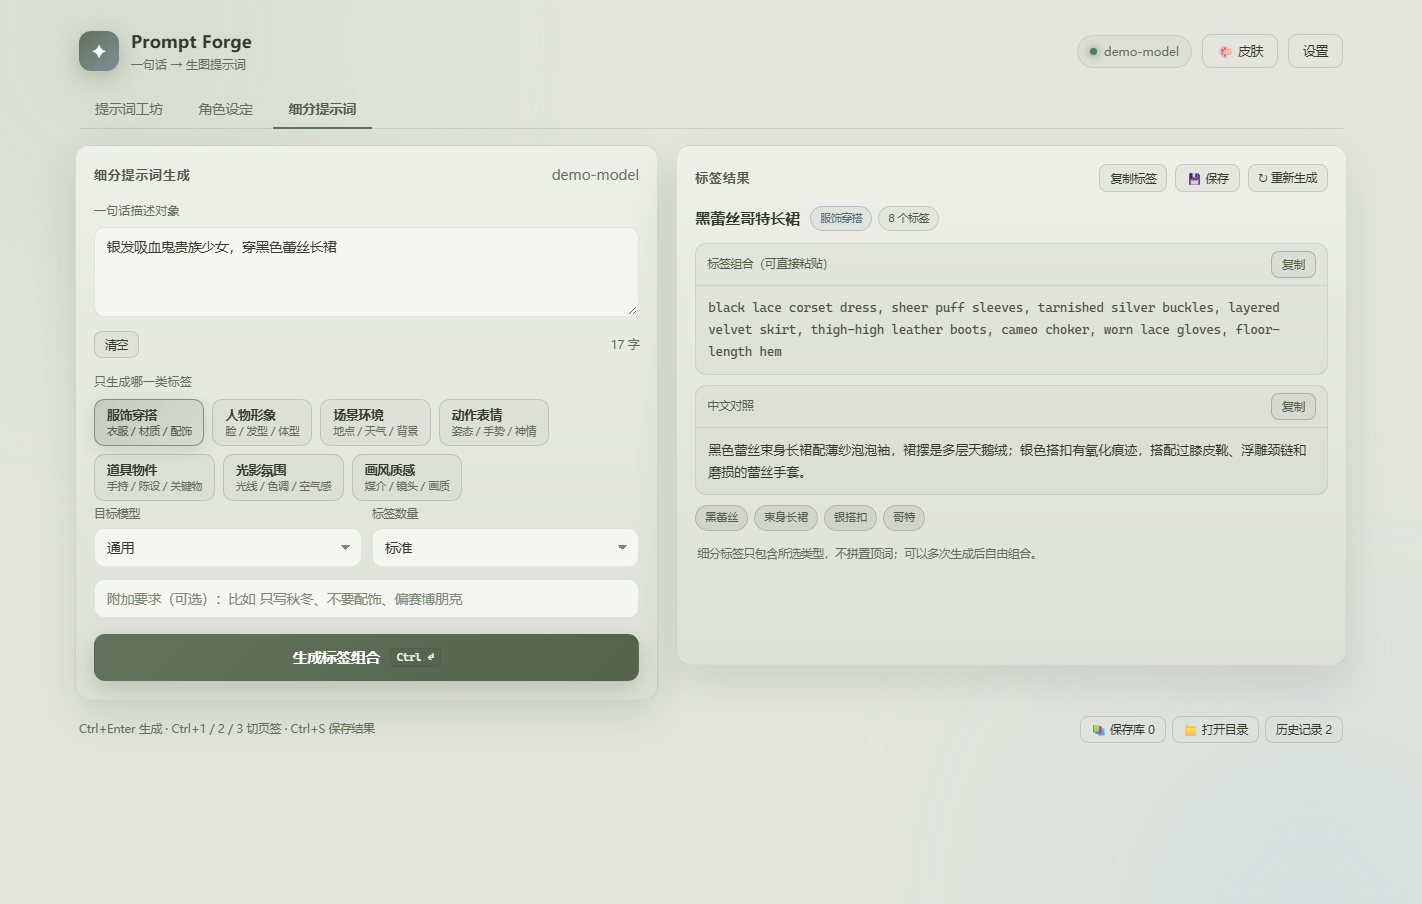
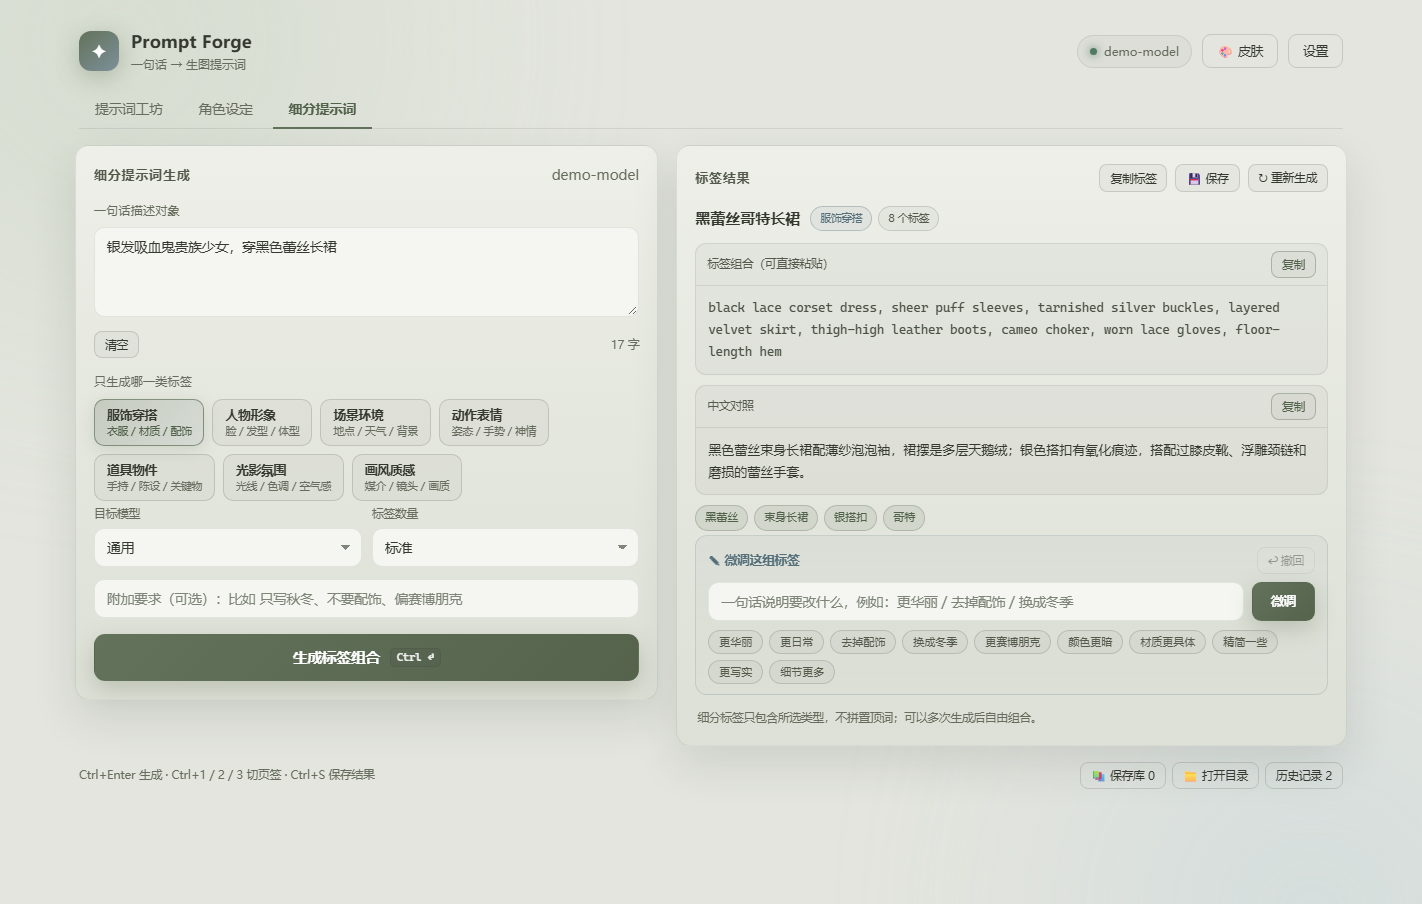
feat: add refine and undo for segment tags
- new /api/segment/refine streams a locally edited tag set
- keep unmentioned tags verbatim and stay inside the selected dimension
- segment UI gains refine bar, quick chips and unlimited undo
- refine updates the existing history entry instead of adding a new one
- screenshots and docs refreshed; UI regression suite: 281 assertions

Changed region(s): [[0.4951, 0.5885, 0.9283, 0.8053], [0.7736, 0.7743, 0.9283, 0.8673], [0.0619, 0.8363, 0.2785, 0.8673]]

diff --git a/src/public/app.js b/src/public/app.js
@@ -23,6 +23,11 @@ const SEG_TYPES = [
 // 后端改了但没重启时，/api/segment 会 404；给一个能照做的提示，而不是裸的 not found
 const STALE_SERVER_MSG = '检测到服务端还是旧进程：没有 /api/segment。请关闭运行 Prompt Forge 的命令行窗口后重新运行 node src/server.mjs，再刷新本页；exe 版需要重新打包。';
 
+const SEG_REFINE_CHIPS = [
+  '更华丽', '更日常', '去掉配饰', '换成冬季', '更赛博朋克',
+  '颜色更暗', '材质更具体', '精简一些', '更写实', '细节更多',
+];
+
 // 本地兜底词库：只在接口不可用（没配 Key / 连不上）时用
 const IDEAS = [
   '雨夜的霓虹街头，一位赛博朋克女剑客回头看向镜头',
@@ -70,6 +75,7 @@ const S = {
   segMeta: null,
   segText: '',
   segSentence: '',
+  segStack: [],
   serverStale: false,
   lib: [],
   libDir: '',
@@ -106,6 +112,7 @@ document.addEventListener('DOMContentLoaded', () => {
   renderRefineChips();
   renderCharRefineChips();
   renderSegTypeChips();
+  renderSegRefineChips();
   renderThemeSwatches();
   bind();
   loadHistory();
@@ -151,6 +158,22 @@ function renderSegTypeChips() {
 
 function segTypeLabel(id) {
   return (SEG_TYPES.find((t) => t.id === id) || SEG_TYPES[0]).label;
+}
+
+function renderSegRefineChips() {
+  const box = $('#segRefineChips');
+  if (!box) return;
+  box.innerHTML = '';
+  for (const text of SEG_REFINE_CHIPS) {
+    const b = document.createElement('button');
+    b.type = 'button';
+    b.textContent = text;
+    b.addEventListener('click', () => {
+      $('#segRefineInput').value = text;
+      refineSegment(text);
+    });
+    box.appendChild(b);
+  }
 }
 
 /* ============ 操作体验小工具 ============ */
@@ -1174,11 +1197,13 @@ function loadSavedSegment(meta, fallbackTitle) {
 
   S.segData = d;
   S.segSentence = str(meta.sentence);
+  S.segStack = [d];
   S.segMeta = {
     sentence: S.segSentence,
     type,
     targetModel: str(meta.targetModel),
     at: Date.now(),
+    historyAt: null,
   };
   S.segText = d.tags;
 
@@ -1359,7 +1384,8 @@ function restoreHistoryEntry(h) {
     document.querySelectorAll('#segTypeChips .chip').forEach((c) => c.classList.toggle('active', c.dataset.id === type));
     S.segData = d;
     S.segSentence = h.sentence || '';
-    S.segMeta = { sentence: S.segSentence, type, targetModel: h.targetModel || '', at: h.at };
+    S.segStack = [d];
+    S.segMeta = { sentence: S.segSentence, type, targetModel: h.targetModel || '', at: h.at, historyAt: h.at };
     S.segText = d.tags;
     if (S.segSentence) {
       $('#segSentence').value = S.segSentence;
@@ -1870,6 +1896,7 @@ async function generateSegment() {
   $('#btnSegGenerateText').textContent = '生成中…';
   $('#segEmpty').hidden = true;
   $('#segCards').hidden = true;
+  $('#segRefineBar').hidden = true;
   $('#segStream').hidden = false;
   $('#segStreamText').textContent = '';
   $('#segStreamLabel').textContent = '正在生成…（按 Esc 取消）';
@@ -1946,14 +1973,17 @@ async function generateSegment() {
 
     S.segData = parsed;
     S.segSentence = sentence;
+    S.segStack = [parsed];
     S.segMeta = {
       sentence,
       type: S.segType,
       targetModel: $('#segTarget').value,
       at: Date.now(),
+      historyAt: null,
     };
     renderSegment(parsed);
     pushSegmentHistory();
+    S.segMeta.historyAt = S.segMeta.at;
     revealResult('#viewSegment .result');
   } catch (err) {
     $('#segStream').hidden = true;
@@ -1977,6 +2007,7 @@ async function generateSegment() {
     $('#btnSegRegen').disabled = !S.segData;
     $('#btnSegCopyAll').disabled = !S.segData;
     $('#btnSegSave').disabled = !S.segData;
+    updateSegRefineUi();
   }
 }
 
@@ -2021,11 +2052,13 @@ function renderSegment(d) {
   }
 
   $('#segNote').hidden = false;
+  $('#segRefineBar').hidden = false;
   S.segData = d;
   S.segText = d.tags;
   $('#btnSegSave').disabled = false;
   $('#btnSegCopyAll').disabled = false;
   $('#btnSegRegen').disabled = false;
+  updateSegRefineUi();
 }
 
 function segmentMarkdown() {
@@ -2058,6 +2091,146 @@ function pushSegmentHistory() {
   });
   S.history = S.history.slice(0, 60);
   saveHistory();
+}
+
+// 微调不新增历史，而是就地更新同一次细分生成的那条
+function updateSegmentHistoryEntry() {
+  const at = S.segMeta?.historyAt;
+  if (!at) return;
+  const h = S.history.find((x) => x.kind === 'segment' && x.at === at);
+  if (!h) return;
+  const d = S.segData || {};
+  h.title = d.title || h.title;
+  h.tags = d.tags || h.tags;
+  h.translation = d.translation || '';
+  h.keywords = d.keywords || [];
+  saveHistory();
+}
+
+function updateSegRefineUi() {
+  const n = Math.max(0, (S.segStack || []).length - 1);
+  if (!S.segBusy) {
+    $('#segRefineStatus').textContent = n > 0 ? `已微调 ${n} 次` : '';
+  }
+  $('#btnSegUndoRefine').disabled = n <= 0 || S.segBusy;
+  $('#btnSegRefine').disabled = S.segBusy;
+  $('#segRefineInput').disabled = S.segBusy;
+  $('#segRefineChips').querySelectorAll('button').forEach((b) => { b.disabled = S.segBusy; });
+}
+
+async function refineSegment(instructionArg) {
+  if (S.segBusy) return;
+  const instruction = String(instructionArg ?? $('#segRefineInput').value).trim();
+  if (!instruction) {
+    showSegErr('先写一句要改什么，比如「更华丽」');
+    $('#segRefineInput').focus();
+    return;
+  }
+  const cur = S.segData;
+  if (!cur?.tags) {
+    showSegErr('还没有可以微调的标签，先生成一条');
+    return;
+  }
+
+  hideSegErr();
+  S.segBusy = true;
+  const btn = $('#btnSegRefine');
+  const oldLabel = btn.textContent;
+  btn.textContent = '微调中…';
+  $('#segRefineStatus').textContent = '微调中…';
+  $('#btnSegGenerate').disabled = true;
+  $('#btnSegRegen').disabled = true;
+  updateSegRefineUi();
+
+  S.segAbort = new AbortController();
+  let acc = '';
+  let gotError = null;
+
+  try {
+    const res = await fetch('/api/segment/refine', {
+      method: 'POST',
+      headers: { 'Content-Type': 'application/json' },
+      body: JSON.stringify({
+        instruction,
+        previous: { tags: cur.tags, translation: cur.translation },
+        segmentType: S.segMeta?.type || S.segType,
+        targetModel: S.segMeta?.targetModel || $('#segTarget').value,
+      }),
+      signal: S.segAbort.signal,
+    });
+
+    if (!res.ok) {
+      if (res.status === 404) throw new Error(STALE_SERVER_MSG);
+      const e = await res.json().catch(() => ({ error: `HTTP ${res.status}` }));
+      throw new Error(e.error || `HTTP ${res.status}`);
+    }
+
+    const reader = res.body.getReader();
+    const dec = new TextDecoder();
+    let buf = '';
+
+    for (;;) {
+      const { done, value } = await reader.read();
+      if (done) break;
+      buf += dec.decode(value, { stream: true });
+      let nl;
+      while ((nl = buf.indexOf('\n')) !== -1) {
+        const line = buf.slice(0, nl).trim();
+        buf = buf.slice(nl + 1);
+        if (!line.startsWith('data:')) continue;
+        let evt;
+        try {
+          evt = JSON.parse(line.slice(5).trim());
+        } catch {
+          continue;
+        }
+        if (evt.type === 'delta') {
+          acc += evt.text;
+          $('#segRefineStatus').textContent = `微调中… ${acc.length} 字`;
+        } else if (evt.type === 'error') {
+          gotError = evt.message;
+        }
+      }
+    }
+
+    if (gotError) throw new Error(gotError);
+    if (!acc.trim()) throw new Error('模型没有返回内容，再试一次');
+
+    const parsed = normalizeSegment(parseJsonLoose(acc));
+    if (!parsed) throw new Error('模型返回的不是标准 JSON，再试一次或换个模型');
+
+    S.segStack.push(parsed);
+    S.segData = parsed;
+    renderSegment(parsed);
+    updateSegmentHistoryEntry();
+    $('#segRefineInput').value = '';
+    revealResult('#viewSegment .result');
+    $('#segRefineInput').focus();
+  } catch (err) {
+    if (err.name === 'AbortError') {
+      showSegErr('已取消本次微调');
+    } else {
+      showSegErr(err.message || String(err), () => refineSegment(instruction));
+    }
+  } finally {
+    S.segBusy = false;
+    S.segAbort = null;
+    btn.textContent = oldLabel;
+    $('#btnSegGenerate').disabled = false;
+    $('#btnSegRegen').disabled = !S.segData;
+    updateSegRefineUi();
+  }
+}
+
+function undoSegmentRefine() {
+  const stack = S.segStack || [];
+  if (stack.length <= 1) return;
+  stack.pop();
+  const d = stack[stack.length - 1];
+  S.segData = d;
+  renderSegment(d);
+  updateSegmentHistoryEntry();
+  hideSegErr();
 }
 
 /* ============ 微调 ============ */
@@ -2387,6 +2560,16 @@ function bind() {
       keywords: d.keywords || [],
     }, $('#btnSegSave'));
   });
+
+  /* 细分标签的微调 */
+  $('#btnSegRefine').addEventListener('click', () => refineSegment());
+  $('#segRefineInput').addEventListener('keydown', (e) => {
+    if (e.key === 'Enter') {
+      e.preventDefault();
+      refineSegment();
+    }
+  });
+  $('#btnSegUndoRefine').addEventListener('click', undoSegmentRefine);
 
   $('#btnClear').addEventListener('click', () => {
     $('#sentence').value = '';

diff --git a/src/public/index.html b/src/public/index.html
@@ -401,6 +401,21 @@
 
           <div id="segCards" hidden></div>
 
+          <div class="refine" id="segRefineBar" hidden>
+            <div class="refine-head">
+              <span class="refine-title">✎ 微调这组标签</span>
+              <span class="dim small" id="segRefineStatus"></span>
+              <span class="grow"></span>
+              <button class="btn tiny ghost" id="btnSegUndoRefine" disabled>↩ 撤回</button>
+            </div>
+            <div class="refine-row">
+              <input id="segRefineInput" placeholder="一句话说明要改什么，例如：更华丽 / 去掉配饰 / 换成冬季"
+                autocomplete="off" />
+              <button class="btn primary" id="btnSegRefine">微调</button>
+            </div>
+            <div class="quick-chips" id="segRefineChips"></div>
+          </div>
+
           <p class="seg-note dim small" id="segNote" hidden>
             细分标签只包含所选类型，不拼置顶词；可以多次生成后自由组合。
           </p>

diff --git a/README.en.md b/README.en.md
@@ -33,8 +33,8 @@ instead of hand-splicing tags.
 - **Character sheet mode** — describes who is in frame, what they wear, the scene, the action and
   the camera, then outputs one flowing English prompt plus a Chinese translation.
 - **Segment tags** — generate one dimension at a time (outfit, character look, scene, pose,
-  props, lighting, style) as a comma-separated English tag set; copy it, save it, or splice
-  several sets into a full prompt.
+  props, lighting, style) as a comma-separated English tag set; refine it with one sentence,
+  undo, copy, save or splice several sets into a full prompt.
 - **Refine instead of regenerate** — after generating, say `make it night` / `remove the person` /
   `vertical composition`; only what you mention changes, everything else stays verbatim.
   Unlimited undo.
@@ -132,7 +132,7 @@ Self-signed certificates do not remove the warning.
 
 ```bash
 npm run test:static    # id references, prompt templates, theme contrast — no browser needed
-npm test               # full UI regression: 272 assertions in headless Chrome
+npm test               # full UI regression: 281 assertions in headless Chrome
 ```
 
 The UI suite boots a throwaway server against a mock OpenAI endpoint and asserts real behavior:
@@ -146,7 +146,7 @@ PASS  微调结果仍带置顶词（只带一次） (pinned prefix not duplicate
 PASS  保存的是带置顶词的实际版本 (saved file matches what you see)
 PASS  载入时置顶词没有被二次拼接 (no double-prefixing when reloading)
 ...
-272 passed, 0 failed
+281 passed, 0 failed
 ```
 
 Screenshots in `docs/` are generated by `node tests/make-screenshots.mjs`, not hand-cropped.
